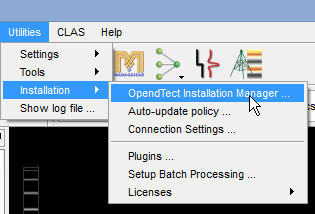
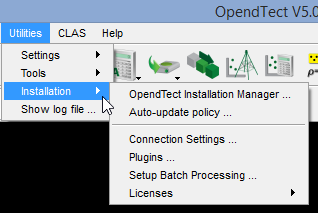
Updated install.htm to reflect change in popout menu. Added hyperlinks to other sub-entries in menu.

diff --git a/od_userdoc/Content/utils/install/install.htm b/od_userdoc/Content/utils/install/install.htm
@@ -1,5 +1,5 @@
 <?xml version="1.0" encoding="utf-8"?>
-<html xmlns:MadCap="http://www.madcapsoftware.com/Schemas/MadCap.xsd" MadCap:lastBlockDepth="2" MadCap:lastHeight="640" MadCap:lastWidth="1256">
+<html xmlns:MadCap="http://www.madcapsoftware.com/Schemas/MadCap.xsd" MadCap:lastBlockDepth="2" MadCap:lastHeight="693" MadCap:lastWidth="792">
     <head>
     </head>
     <body>
@@ -12,6 +12,12 @@
         <p><a href="auto_updt_pol.htm" target="_self">Auto-update Policy</a>
         </p>
         <p><a href="con_setts.htm" target="_self">Connection Settings</a>
+        </p>
+        <p><a href="plugins.htm" target="_self">Plugins</a>
+        </p>
+        <p><a href="setup_btch_proc.htm" target="_self">Setup Batch Processing</a>
+        </p>
+        <p><a href="lics.htm" target="_self">Licenses</a>
         </p>
         <p>&#160;</p>
         <p>&#160;</p>
